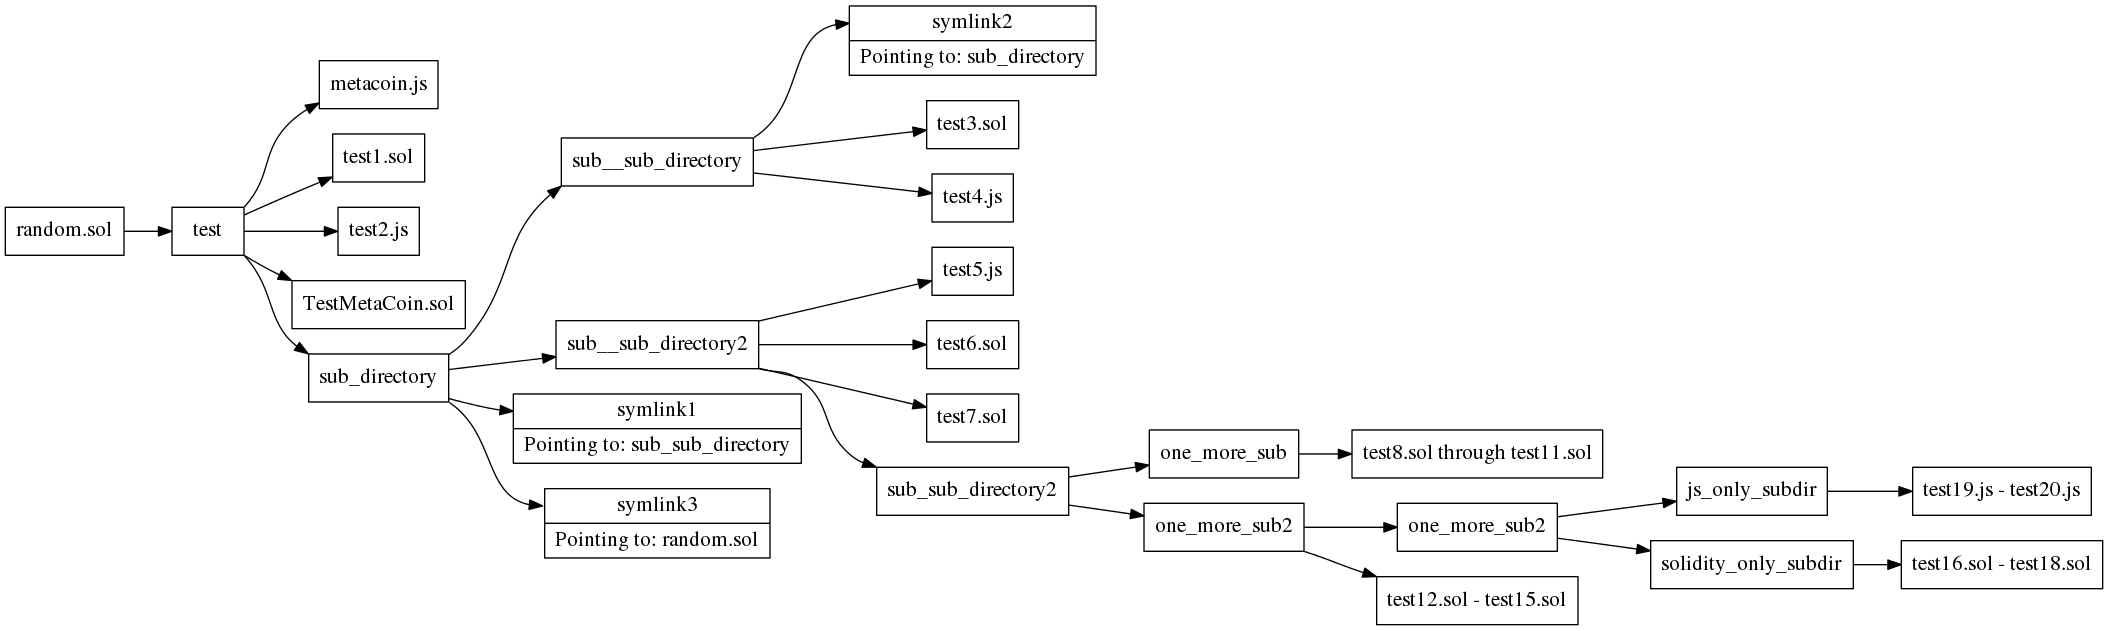
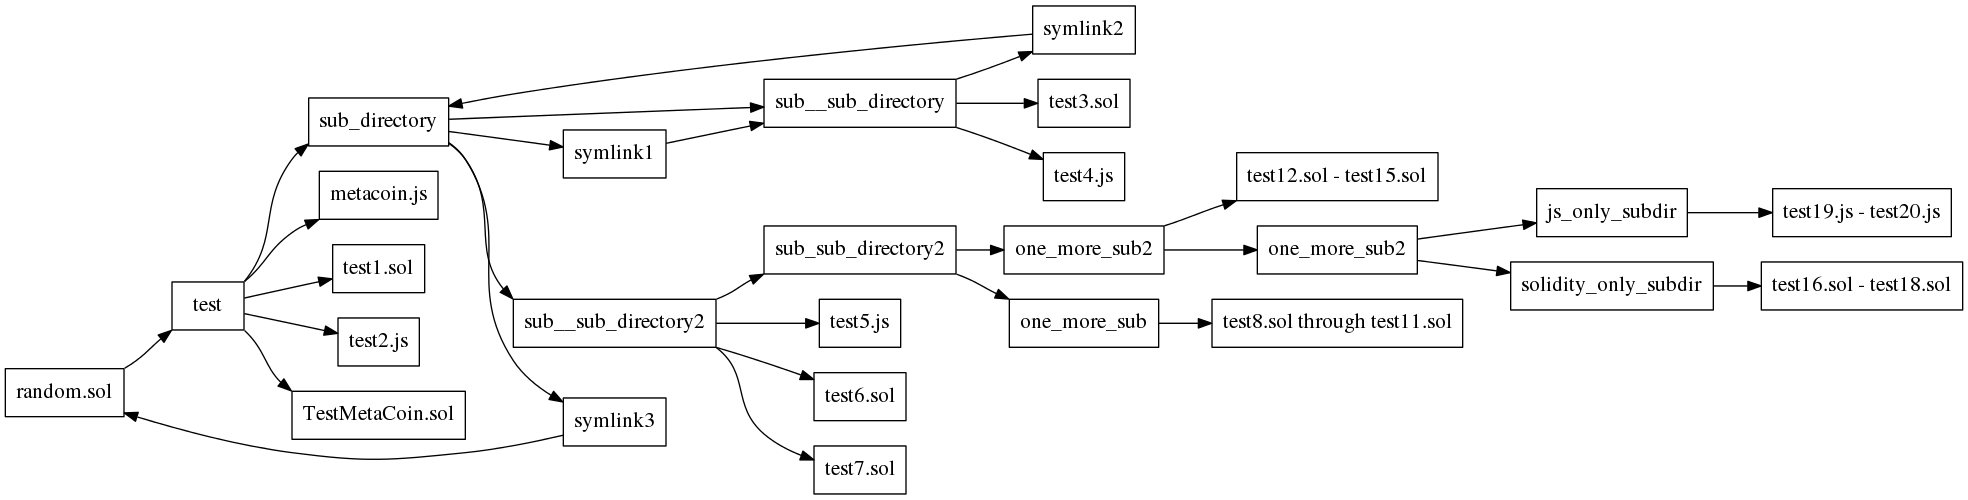
Updated uml

diff --git a/filestructureuml.md b/filestructureuml.md
@@ -47,15 +47,15 @@ label = "<f0> sub__sub_directory2"
 shape = "record"
 ];
 "node9" [
-label = "<f0> symlink1 | <f1> Pointing to: sub_sub_directory"
+label = "<f0> symlink1"
 shape = "record"
 ];
 "node10" [
-label = "<f0> symlink3 | <f1> Pointing to: random.sol"
+label = "<f0> symlink3"
 shape = "record"
 ];
 "node11" [
-label = "<f0> symlink2 | <f1> Pointing to: sub_directory"
+label = "<f0> symlink2"
 shape = "record"
 ];
 "node12" [
@@ -194,6 +194,16 @@ id = 3
 id = 3
 ];
 "node24":f1 -> "node26":f0 [
+id = 3
+];
+
+"node11":f1 -> "node6":f0 [
+id = 3
+];
+"node9":f1 -> "node7":f0 [
+id = 3
+];
+"node10":f1 -> "node0":f0 [
 id = 3
 ];
 }
